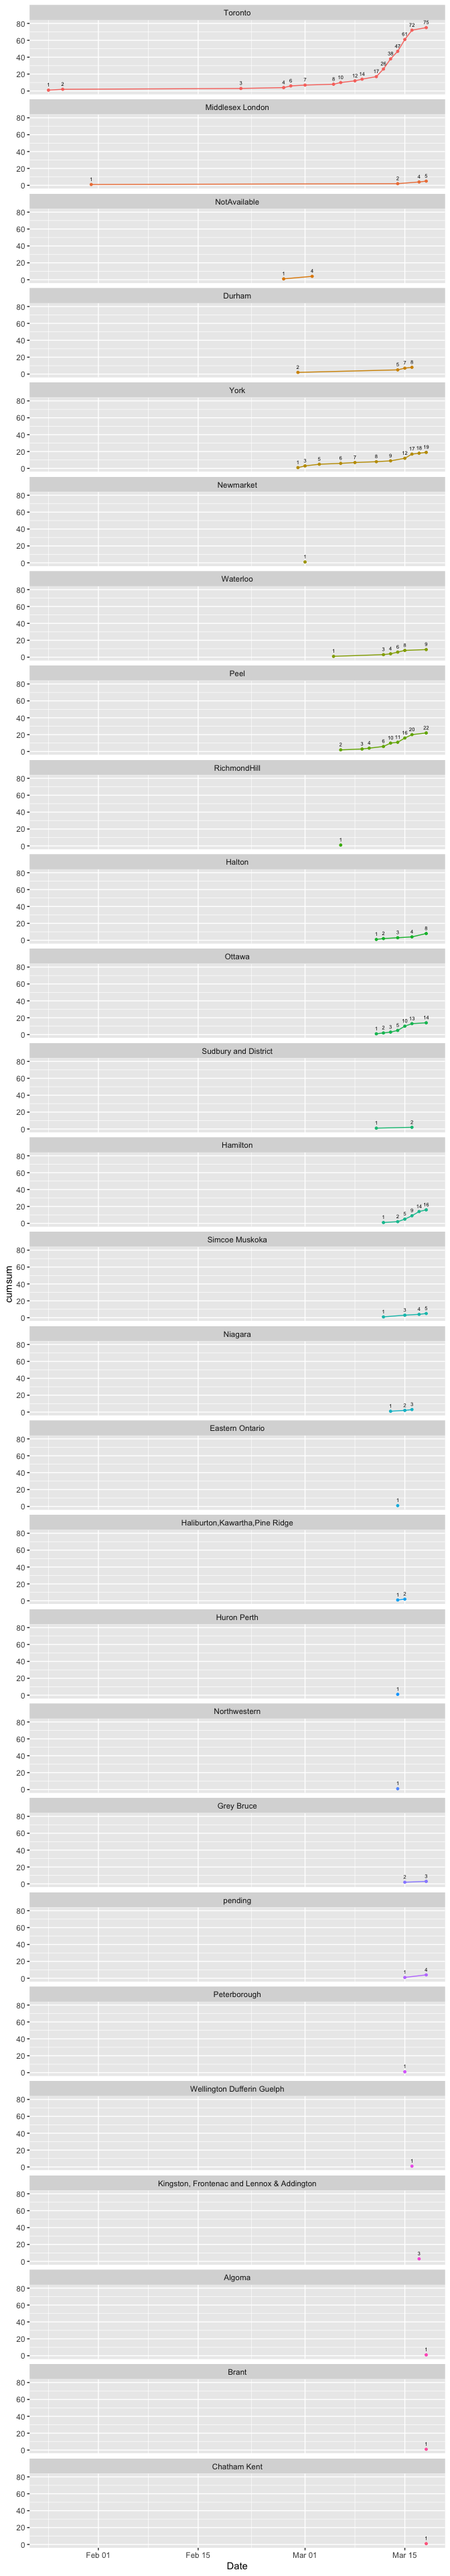
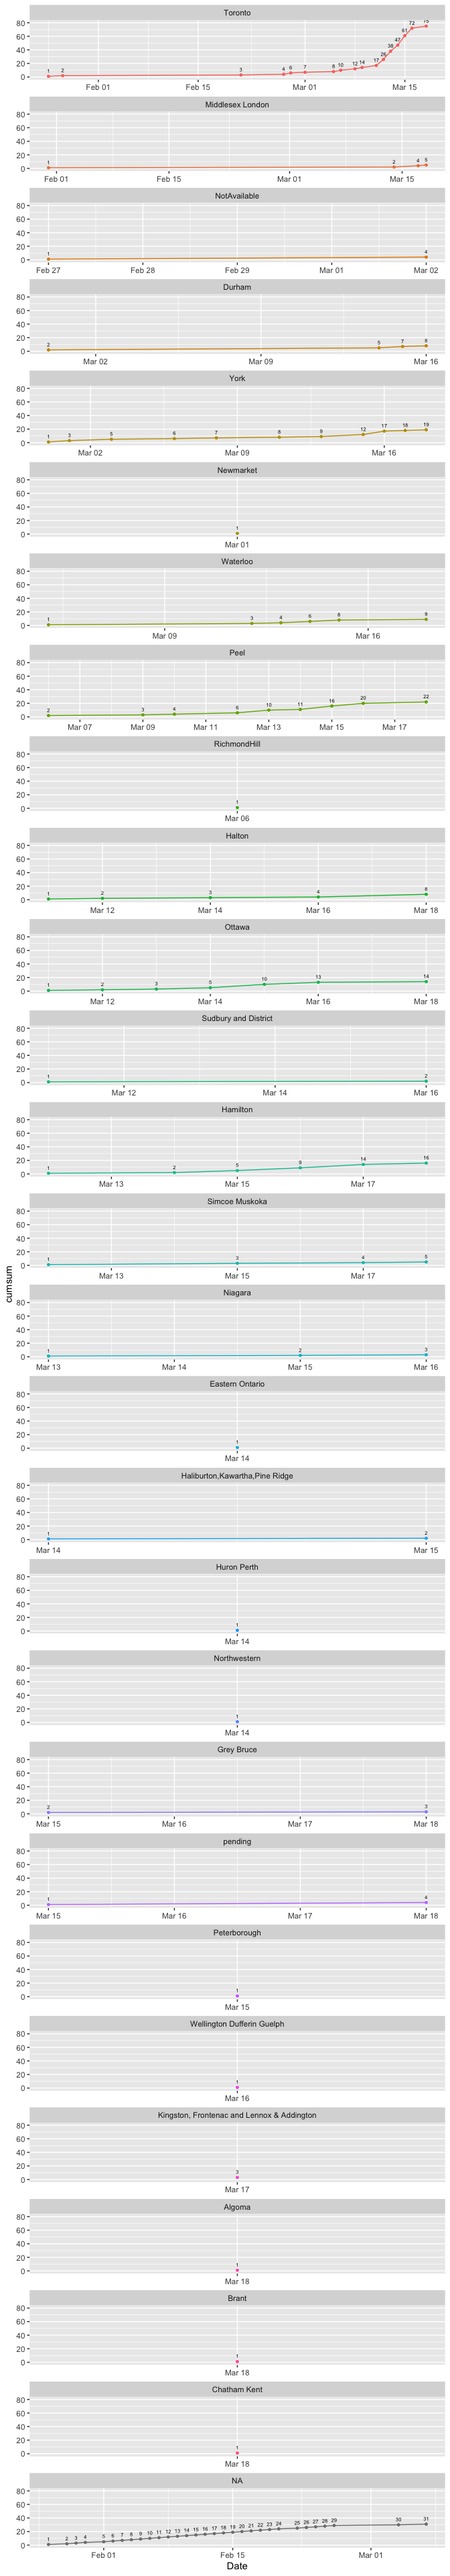
Update gitignore file.

Changed region(s): [[0.0312, 0.0, 1.0, 1.0]]

diff --git a/Cases-Over-Time.md b/Cases-Over-Time.md
@@ -30,7 +30,7 @@ df <- read_csv("Data/ontario_corona_cases.csv")
 ## Total Cases in Ontario
 
 This chart shows the exponential growth in COVID-19 cases in Ontario as
-of 2020-03-18 14:03:24. To date there are 212 cases of COVID-19 as
+of 2020-03-18 14:44:15. To date there are 212 cases of COVID-19 as
 reported by the Ontario government.
 
 ``` r
@@ -64,7 +64,13 @@ Most of cases are reported in Toronto however the virus is spreading to
 other regions.
 
 ``` r
-cases_by_region <- df %>% 
+dates <- seq (as.Date("2020-01-25"), Sys.Date(), "days") %>% 
+  data.frame() %>% 
+  rename (Date = 1)
+  
+
+cases_by_region <- dates %>% 
+  left_join (df, by = c ("Date" = "Date")) %>% 
   group_by (Date, Public_Health_Unit) %>% 
   count () %>% 
   group_by (Public_Health_Unit) %>% 
@@ -75,7 +81,10 @@ cases_by_region <- df %>%
   mutate (label = parse_factor(Public_Health_Unit),
           label = fct_reorder(label, date_first_case)) 
 
-cases_by_region %>%  
+temp <- c("Toronto", "RichmondHill", "Grey Bruce")
+
+cases_by_region %>%
+  #dplyr::filter(Public_Health_Unit %in% temp) %>% 
   ggplot (aes (x = Date, y = cumsum, colour = label)) +
   geom_line (aes (group = 1)) +
   geom_point(size = 1) +
@@ -85,6 +94,7 @@ cases_by_region %>%
             colour = "black") +
   scale_y_continuous(limits = c(0, (max(cases_by_region$cumsum) + 5))) +
   facet_wrap(~label, 
+             scales = "free",
              ncol = 1) +
   theme (legend.position = "none")
 ```
